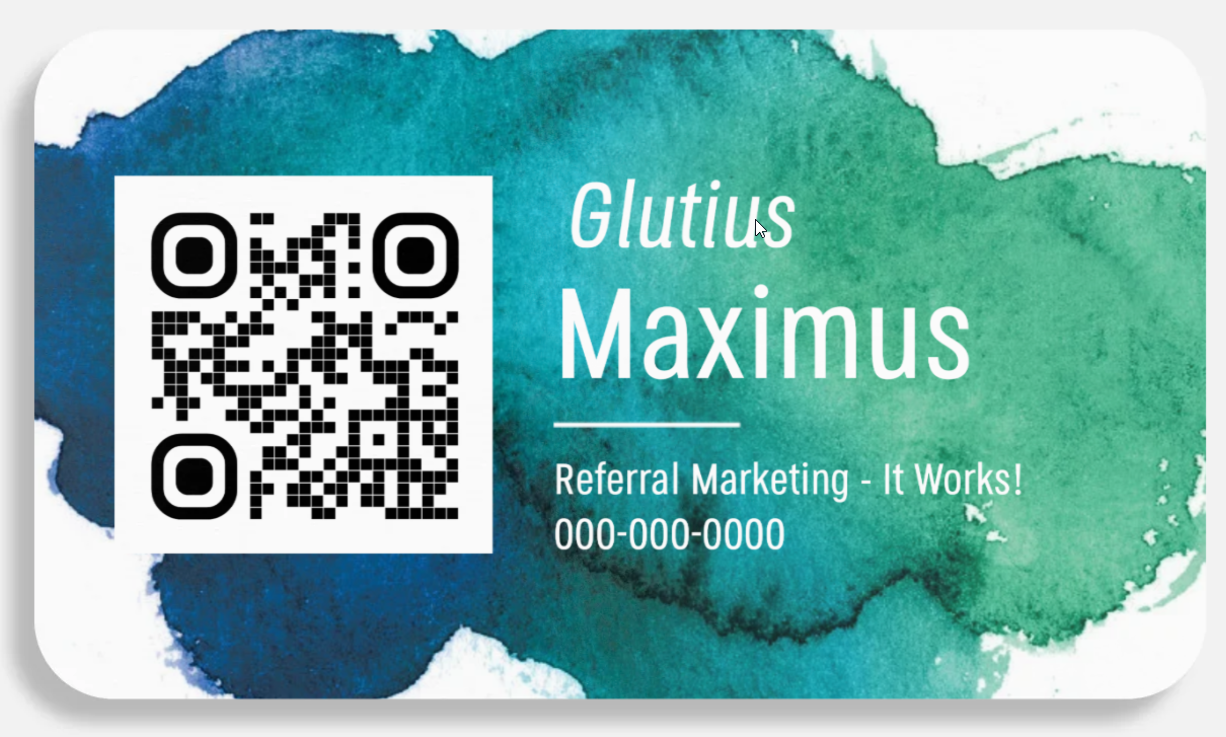
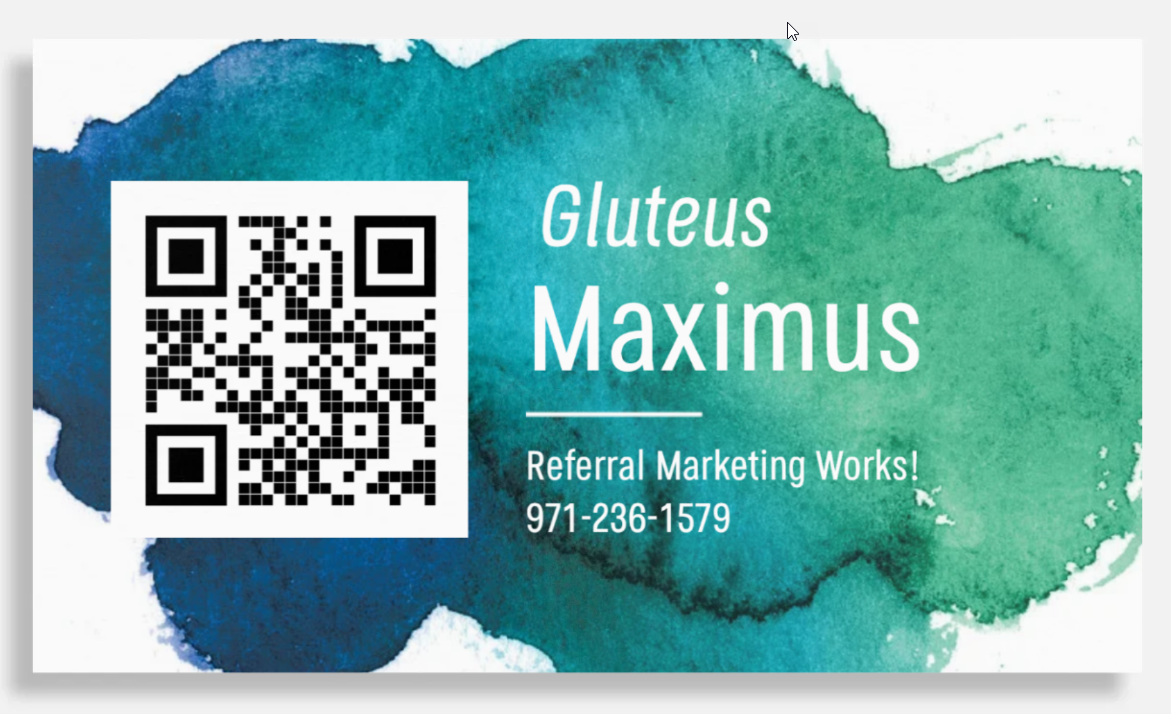
Correct Spelling some ad-copy tweaks.

diff --git a/WEB/index.html b/WEB/index.html
@@ -59,6 +59,7 @@
             box-sizing: border-box;
         }
     </style>
+
 </head>
 <body>
     <div class="banner-container">
@@ -75,14 +76,8 @@
         <h3>The Product</h3>
         <p>
             I design fun, custom calling cards, cards that
-            you can make money with when you share them!
+            you can make money with as you share them!
         </p>
-
-        <p>
-            I make them from images you send me or from stuff I
-            find on the internet that tickles your funnybone.
-        </p>
-
         <p>
             <b>It's a business-in-a-box!</b>
         </p>
@@ -95,26 +90,22 @@
 
         <p>
             Your first two referral fees are paid to the same person who
-            was paid for your referral. This is called "roll-up."
+            was paid for your referral.
         </p>
 
         <p>
             This means the first two referrals that Doug generates are
-            paid to you, then their first two, and their first two, and so on...
+            paid to you, then their first two, and their first two, and so on
+            , and so on, and so on, and so on, and so on . . .
         </p>
-
-        <h3>The Magic!</h3>
         <p>
-            Now, thanks to the magic of "roll-up,"
-            every $25 you receive can begin to multiply
-            all on its own, over and over again!
+            <b>You Do the Math!</b>
         </p>
 
         <h3>Let's Do This!</h3>
         <p>
-            Let's chat. Let me know what you are interested in
-            or what makes you laugh.  Send no money now, just
-            text me at:
+            Let me know what you are interested in
+            or what makes you laugh.  Send me a text at:
         </p>
         <p>
             <b>971-236-1579.</b>
